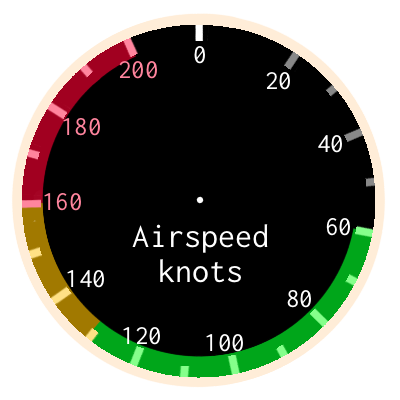
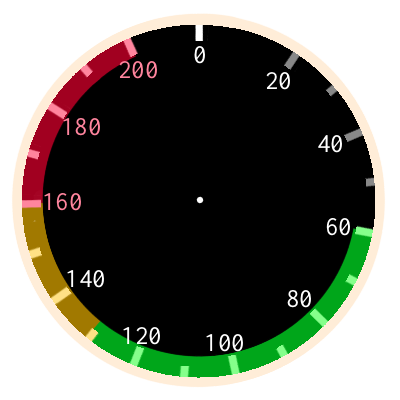
Change speed dial image and UI appearance

Changed region(s): [[0.33, 0.57, 0.69, 0.72]]

diff --git a/src/pylines/game/screens/game_screen.py b/src/pylines/game/screens/game_screen.py
@@ -379,14 +379,14 @@ class GameScreen(State):
             draw_needle(hud_surface, centre, 90 - (selected_runway.heading-yaw), 50, (0, 120, 255))
             draw_needle(hud_surface, centre, 270 - (selected_runway.heading-yaw), 50, (0, 120, 255))
 
-        # ASI (Air Speed Indicator)
+        # ASI (Airspeed Indicator)
         centre = (C.WN_W//2+300, C.WN_H*0.85)
         rect = self.images.speed_dial.get_rect(center=centre)
         hud_surface.blit(self.images.speed_dial, rect)
 
         speed_knots = self.plane.vel.length() * 1.94384  # Convert to knots
         angle = 90 - min(336, 270 * speed_knots/160)
-        draw_text(hud_surface, (C.WN_W//2+300, C.WN_H*0.85 - 20), 'centre', 'centre', f"{int(self.plane.vel.length() * 1.94384):03d}", (192, 192, 192), 25, self.font)
+        draw_text(hud_surface, (C.WN_W//2+300, C.WN_H*0.85 + 30), 'centre', 'centre', f"{int(self.plane.vel.length() * 1.94384):03d}", (192, 192, 192), 25, self.font)
         draw_needle(hud_surface, centre, angle, 100)
 
         # Altimeter (left)
